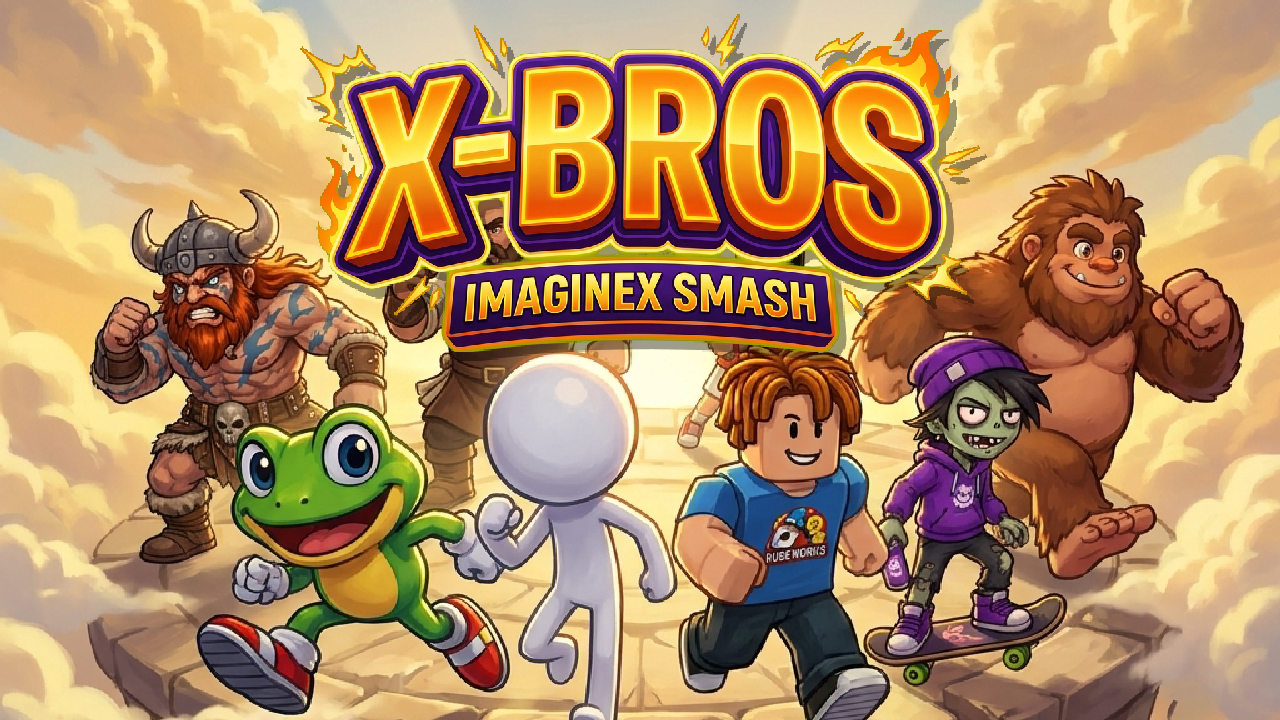
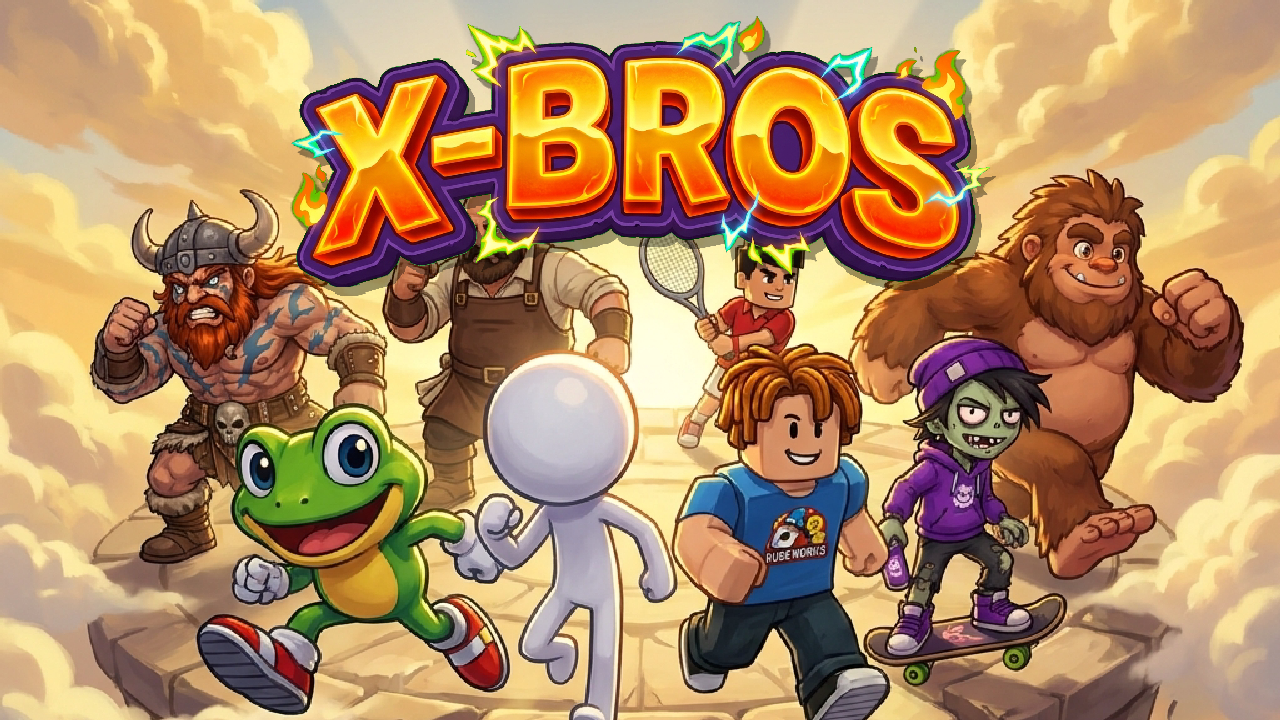
X-Bros v1.0: items (Power Star / Taco / Bomb), per-stage melodies, subtitle-free title
- Items spawn on floor/platforms every 11-18s: star = 8s of 1.5x power w/ gold
  pulse, taco = heal 35%, bomb = trap that dodges/shields can beat
- Meshy-painted item icons keyed into sprites/items.png (rect fallback kept)
- CPU grabs tacos when hurt and stars when safe
- Three A-minor lead melodies, one per stage mood, on top of per-stage tempo
- Title art recomposited with a new subtitle-free logo (user: "IMAGINEX SMASH"
  made no sense) - flatter lettering also uncovers John and Chad
- Smoke test: 60 checks

Changed region(s): [[0.2188, 0.0306, 0.7812, 0.5194]]

diff --git a/public/games/x-bros/index.html b/public/games/x-bros/index.html
@@ -114,10 +114,11 @@ class SoundManager {
   // ---- Procedural chiptune BGM ----------------------------------------------
   // A 4-bar loop in A minor scheduled with a 350ms lookahead. All routed through
   // musicGain -> master so the M mute still silences everything at once.
-  startMusic(bpm = 138) {
+  startMusic(bpm = 138, leadIdx = 0) {
     this.ensure();
     this.resume();
-    this.bpm = bpm;   // per-stage tempo
+    this.bpm = bpm;         // per-stage tempo
+    this.leadIdx = leadIdx; // per-stage melody
     if (!this.ctx || this.musicTimer) return;
     this.musicGain = this.ctx.createGain();
     this.musicGain.gain.value = 0.55;   // music sits under the SFX
@@ -150,14 +151,28 @@ class SoundManager {
     const BASS = [45, 45, 57, 45, 48, 48, 45, 45,   43, 43, 55, 43, 41, 41, 43, 44];
     const b = BASS[step % BASS.length];
     this.tone({ type: "triangle", freqStart: midi(b), dur: SPB * 0.92, volume: 0.26, at: t, dest: g });
-    // Lead: 4-bar melody (0 = rest), A minor pentatonic
-    const LEAD = [
-      69, 0, 72, 0, 74, 0, 72, 74,   76, 0, 74, 72, 69, 0, 0, 0,
-      67, 0, 69, 0, 72, 0, 69, 72,   74, 0, 72, 69, 67, 0, 0, 0,
-      69, 0, 72, 0, 74, 0, 76, 0,    79, 0, 76, 74, 76, 0, 0, 0,
-      81, 0, 79, 76, 74, 0, 72, 74,  69, 0, 0, 0, 0, 0, 64, 67,
+    // Leads: three 4-bar melodies (0 = rest), all A minor pentatonic — picked per stage
+    const LEADS = [
+      [ // 0 — driving (Plains / Rooftop)
+        69, 0, 72, 0, 74, 0, 72, 74,   76, 0, 74, 72, 69, 0, 0, 0,
+        67, 0, 69, 0, 72, 0, 69, 72,   74, 0, 72, 69, 67, 0, 0, 0,
+        69, 0, 72, 0, 74, 0, 76, 0,    79, 0, 76, 74, 76, 0, 0, 0,
+        81, 0, 79, 76, 74, 0, 72, 74,  69, 0, 0, 0, 0, 0, 64, 67,
+      ],
+      [ // 1 — moody, sparse (Peaks / Cavern)
+        69, 0, 0, 67, 69, 0, 72, 0,    0, 0, 74, 0, 72, 0, 69, 0,
+        64, 0, 0, 67, 69, 0, 0, 0,     72, 0, 69, 0, 67, 0, 0, 0,
+        69, 0, 0, 67, 69, 0, 74, 0,    0, 0, 76, 0, 74, 0, 72, 0,
+        79, 0, 76, 0, 74, 0, 72, 0,    69, 0, 0, 0, 67, 0, 64, 0,
+      ],
+      [ // 2 — bouncy syncopation (Sunset)
+        0, 69, 0, 72, 0, 74, 74, 0,    72, 0, 69, 0, 72, 72, 0, 0,
+        0, 67, 0, 69, 0, 72, 72, 0,    69, 0, 67, 0, 69, 69, 0, 0,
+        0, 69, 0, 72, 0, 76, 76, 0,    74, 0, 72, 0, 74, 74, 0, 0,
+        0, 79, 0, 76, 0, 74, 72, 0,    69, 0, 72, 0, 69, 0, 0, 0,
+      ],
     ];
-    const l = LEAD[step];
+    const l = LEADS[this.leadIdx || 0][step];
     if (l) this.tone({ type: "square", freqStart: midi(l), dur: SPB * 0.85, volume: 0.085, at: t, dest: g });
     // Drums: kick on the beat, snare on 2 & 4, hats on off-8ths
     if (step % 8 === 0) this.tone({ type: "sine", freqStart: 130, freqEnd: 45, dur: 0.09, volume: 0.34, at: t, dest: g });
@@ -368,26 +383,26 @@ const DIFFICULTY = {
 // Stages — the main floor footprint is IDENTICAL in every stage (the grab clamp
 // and floor safety-net both assume it), so variety comes from platforms + palette.
 const STAGES = [
-  { id: "plains", name: "SKY PLAINS", bg: "bg/bg_plains.png", theme: "earth", bpm: 132,
+  { id: "plains", name: "SKY PLAINS", bg: "bg/bg_plains.png", theme: "earth", bpm: 132, lead: 0,
     grass: 0x5fae52,
     bgTop: 0x1a2a4a, bgBot: 0x081828, mtn: 0x223759, haze: 0x12203a,
     floor: 0x432d20, floorEdge: 0x6b4632, plat: 0x6b4632, platEdge: 0x9b6c4a,
     platforms: [{ x: W / 2, y: 440, w: 360 }] },
-  { id: "peaks", name: "TWIN PEAKS", bg: "bg/bg_peaks.png", theme: "stone", bpm: 126,
+  { id: "peaks", name: "TWIN PEAKS", bg: "bg/bg_peaks.png", theme: "stone", bpm: 126, lead: 1,
     bgTop: 0x2a1a3e, bgBot: 0x120a24, mtn: 0x3d2a5c, haze: 0x1d1436,
     floor: 0x3a3a4c, floorEdge: 0x5e5e7a, plat: 0x5e5e7a, platEdge: 0x8888aa,
     platforms: [{ x: W / 2 - 330, y: 450, w: 260 }, { x: W / 2 + 330, y: 450, w: 260 }] },
-  { id: "sunset", name: "SUNSET FLATS", bg: "bg/bg_sunset.png", theme: "earth", bpm: 120,
+  { id: "sunset", name: "SUNSET FLATS", bg: "bg/bg_sunset.png", theme: "earth", bpm: 120, lead: 2,
     grass: 0x7dae4a,
     bgTop: 0x5c2a1a, bgBot: 0x1a0a08, mtn: 0x6e3a24, haze: 0x2a120a,
     floor: 0x4a3524, floorEdge: 0x6e5236, plat: 0x4a7040, platEdge: 0x6a9a58,
     platforms: [] },
-  { id: "rooftop", name: "NEON ROOFTOP", bg: "bg/bg_rooftop.png", theme: "metal", bpm: 150,
+  { id: "rooftop", name: "NEON ROOFTOP", bg: "bg/bg_rooftop.png", theme: "metal", bpm: 150, lead: 0,
     bgTop: 0x0a2a30, bgBot: 0x04121a, mtn: 0x123842, haze: 0x081e26,
     floor: 0x24343c, floorEdge: 0x3a565e, plat: 0x2c3e46, platEdge: 0x22e0e8,
     platforms: [{ x: W / 2 - 380, y: 470, w: 230 }, { x: W / 2 + 380, y: 470, w: 230 },
                 { x: W / 2, y: 380, w: 260 }] },
-  { id: "cavern", name: "CRYSTAL CAVERN", bg: "bg/bg_cavern.png", theme: "crystal", bpm: 112,
+  { id: "cavern", name: "CRYSTAL CAVERN", bg: "bg/bg_cavern.png", theme: "crystal", bpm: 112, lead: 1,
     bgTop: 0x10303a, bgBot: 0x061418, mtn: 0x1a4450, haze: 0x0a2028,
     floor: 0x1e3a34, floorEdge: 0x2fa08a, plat: 0x2a5a50, platEdge: 0x7ce8ff,
     platforms: [{ x: W / 2, y: 430, w: 480 }] },
@@ -655,6 +670,14 @@ function pickOtherIndex(p1Idx) {
   return i;
 }
 
+// Items — spawn on stage every ~11-18s, despawn after 9s, pickup by touch.
+//   star = 8s of 1.5x damage/knockback   taco = heal 35%   bomb = trap (shield blocks it)
+const ITEMS = [
+  { key: "star", frame: 0 },
+  { key: "taco", frame: 1 },
+  { key: "bomb", frame: 2 },
+];
+
 // ---- Battle scene ------------------------------------------------------------
 
 class BattleScene extends Phaser.Scene {
@@ -682,6 +705,10 @@ class BattleScene extends Phaser.Scene {
     const st = this.stageDef;
     if (st.bg && !this.textures.exists("bg_" + st.id)) {
       this.load.image("bg_" + st.id, st.bg);
+    }
+    // Item icons (star/taco/bomb). Missing → rectangle fallback in spawnItem.
+    if (!this.textures.exists("items")) {
+      this.load.spritesheet("items", "sprites/items.png", { frameWidth: 170, frameHeight: 170 });
     }
   }
 
@@ -870,6 +897,8 @@ class BattleScene extends Phaser.Scene {
 
     this.gameOver = false;
     this.hitstopUntil = 0;
+    this.items = [];
+    this.nextItemAt = this.time.now + 9000 + Math.random() * 6000;
 
     // READY... GO! intro — inputs held until GO
     this.introUntil = this.time.now + 1300;
@@ -885,7 +914,7 @@ class BattleScene extends Phaser.Scene {
     });
 
     SFX.play("matchStart");
-    SFX.startMusic(st.bpm);
+    SFX.startMusic(st.bpm, st.lead || 0);
     // Covers ESC-to-roster AND endMatch restart (shutdown fires before create re-runs)
     this.events.once("shutdown", () => SFX.stopMusic());
 
@@ -1026,9 +1055,88 @@ class BattleScene extends Phaser.Scene {
         if (show) this.offArrows[i].x = Math.max(20, Math.min(W - 20, f.sprite.x)) - 11;
       });
 
+      if (!intro) this.tickItems(time);
+
       if (this.p1.stocks <= 0 || this.p2.stocks <= 0) this.endMatch();
     }
     this.hud.tick();
+  }
+
+  // ---- Items ---------------------------------------------------------------
+
+  spawnItem(time) {
+    const def = ITEMS[Math.floor(Math.random() * ITEMS.length)];
+    // Spawn spots: anywhere along the floor + on any platform
+    const spots = [{ x: 160 + Math.random() * (W - 320), y: GROUND_Y - 44 }];
+    for (const p of this.stageDef.platforms) {
+      spots.push({ x: p.x - p.w / 2 + 24 + Math.random() * (p.w - 48), y: p.y - 56 });
+    }
+    const s = spots[Math.floor(Math.random() * spots.length)];
+    let gfx;
+    if (this.textures.exists("items")) {
+      gfx = this.add.sprite(s.x, s.y, "items", def.frame).setDisplaySize(46, 46);
+    } else {
+      gfx = this.add.rectangle(s.x, s.y, 34, 34,
+        def.key === "star" ? 0xffd94a : def.key === "taco" ? 0xd9a04a : 0x222233)
+        .setStrokeStyle(2, 0xffffff);
+    }
+    this.tweens.add({ targets: gfx, y: s.y - 8, duration: 700, yoyo: true, repeat: -1, ease: "Sine.easeInOut" });
+    spawnBurst(this, s.x, s.y, 0xffffff, 6, 90, 5, 300);
+    SFX.play("select");
+    this.items.push({ def, gfx, until: time + 9000 });
+  }
+
+  tickItems(time) {
+    if (time > this.nextItemAt && this.items.length < 2) {
+      this.spawnItem(time);
+      this.nextItemAt = time + 11000 + Math.random() * 7000;
+    }
+    for (let i = this.items.length - 1; i >= 0; i--) {
+      const it = this.items[i];
+      if (time > it.until) {
+        it.gfx.destroy();
+        this.items.splice(i, 1);
+        continue;
+      }
+      for (const f of [this.p1, this.p2]) {
+        if (f.stocks <= 0) continue;
+        if (Math.abs(f.sprite.x - it.gfx.x) < 42 && Math.abs(f.sprite.y - it.gfx.y) < 64) {
+          this.applyItem(f, it.def);
+          it.gfx.destroy();
+          this.items.splice(i, 1);
+          break;
+        }
+      }
+    }
+  }
+
+  applyItem(f, def) {
+    const t = this.time.now / 1000;
+    if (def.key === "taco") {
+      f.damage = Math.max(0, f.damage - 35);
+      f.floatText("+HEAL!", "#7be680");
+      spawnBurst(this, f.sprite.x, f.sprite.y - 20, 0x7be680, 8, 140);
+      SFX.play("confirm");
+    } else if (def.key === "star") {
+      f.powerUntil = t + 8;
+      f.floatText("POWER UP!", "#ffd94a");
+      spawnBurst(this, f.sprite.x, f.sprite.y - 20, 0xffd94a, 12, 200);
+      SFX.play("chargeFull");
+    } else {
+      // Bomb trap — dodge i-frames or a raised shield beat it, otherwise BOOM
+      if (f.tryDefend(f, 14, "attack")) return;
+      f.damage += 14;
+      const dir = Math.random() < 0.5 ? -1 : 1;
+      const kb = (320 + f.damage * ATTACK_KB_SCALE) / f.stats.weight;
+      f.sprite.body.setVelocity(dir * kb * 0.7, -kb * 0.8);
+      f.hitstunUntil = t + 0.35;
+      flashFighter(f, 0xffffff, 100);
+      spawnBurst(this, f.sprite.x, f.sprite.y - 10, 0xff8844, 16, 300, 9, 500);
+      spawnDamageNumber(this, f.sprite.x, f.sprite.y, 14);
+      this.hitstop(90);
+      this.cameras.main.shake(200, 0.01);
+      SFX.play("smashHit");
+    }
   }
 
   endMatch() {
@@ -1040,6 +1148,8 @@ class BattleScene extends Phaser.Scene {
       for (const p of f.projectiles) p.destroy();
       f.projectiles.length = 0;
     }
+    for (const it of this.items) it.gfx.destroy();
+    this.items.length = 0;
     const draw = this.p1.stocks <= 0 && this.p2.stocks <= 0;
     const winner = this.p1.stocks > 0 ? this.p1 : this.p2;
     // Fanfare only when the human wins; CPU wins and draws stay quiet.
@@ -1210,6 +1320,21 @@ class CpuController {
       } else {
         left = this.defAction.dir < 0;    // shield+direction on the press frame = roll
         right = this.defAction.dir > 0;
+      }
+    }
+
+    // Opportunistic item grabs: taco when hurt, star when the opponent is far
+    const scene = this.self.scene;
+    if (scene.items && scene.items.length && !this.defAction && !this.chargePlan) {
+      for (const it of scene.items) {
+        const idx = it.gfx.x - me.x;
+        const wantHeal = it.def.key === "taco" && this.self.damage > 55;
+        const wantStar = it.def.key === "star" && absDx > 260;
+        if ((wantHeal || wantStar) && Math.abs(idx) < 420 && Math.abs(it.gfx.y - me.y) < 90) {
+          left = idx < 0;
+          right = idx > 0;
+          break;
+        }
       }
     }
 
@@ -1642,6 +1767,12 @@ class Fighter {
       else if (Math.abs(body.velocity.x) > 50) frame = Math.floor(t * 7) % 2 === 0 ? 1 : 0;
       this.sprite.setFrame(frame);
       this.sprite.setFlipX(this.facing === -1);
+      // Power Star glow: pulsing gold tint while active
+      if (t < (this.powerUntil || 0)) {
+        this.sprite.setTint(Math.floor(t * 8) % 2 === 0 ? 0xffe08a : 0xffc040);
+      } else if (this.powerUntil && t < this.powerUntil + 0.1) {
+        this.sprite.clearTint();
+      }
     } else {
       this.eye.x = this.sprite.x + this.facing * 10;
       this.eye.y = this.sprite.y - 16;
@@ -1927,12 +2058,14 @@ class Fighter {
   }
 
   applySpecialHit(opponent, sp) {
-    if (opponent.tryDefend(this, sp.dmg, "special")) return;
     const t = this.scene.time.now / 1000;
-    opponent.damage += sp.dmg;
-    this.damageDealt += sp.dmg;
+    const powerMult = t < (this.powerUntil || 0) ? 1.5 : 1.0;
+    const dmg = sp.dmg * powerMult;
+    if (opponent.tryDefend(this, dmg, "special")) return;
+    opponent.damage += dmg;
+    this.damageDealt += dmg;
     const dir = Math.sign(opponent.sprite.x - this.sprite.x) || this.facing;
-    const rawKb = sp.kbBase + opponent.damage * ATTACK_KB_SCALE;
+    const rawKb = (sp.kbBase + opponent.damage * ATTACK_KB_SCALE) * powerMult;
     const kb = rawKb / opponent.stats.weight;
     opponent.sprite.body.setVelocity(dir * kb, -kb * 0.6);
     opponent.hitstunUntil = t + (HITSTUN_BASE + opponent.damage * 0.003) / opponent.stats.weight;
@@ -1941,7 +2074,7 @@ class Fighter {
     this.scene.cameras.main.shake(160, 0.007);
     this.scene.hitstop(80);
     spawnBurst(this.scene, opponent.sprite.x, opponent.sprite.y - 10, 0xff8844, 10, 200);
-    spawnDamageNumber(this.scene, opponent.sprite.x, opponent.sprite.y, sp.dmg);
+    spawnDamageNumber(this.scene, opponent.sprite.x, opponent.sprite.y, dmg);
     SFX.play("hit");
   }
 
@@ -2007,7 +2140,9 @@ class Fighter {
     const variant = hb ? hb.variant : "jab";
     const chargeMult = hb ? hb.chargeMult : 1;
     const dashMult = this.dashHit ? 1.25 : 1.0;
-    const dmg = s.attackDmg * (hb ? hb.dmgMult : 1) * chargeMult * dashMult;
+    // Power Star: 1.5x damage + knockback while active
+    const powerMult = (this.scene.time.now / 1000) < (this.powerUntil || 0) ? 1.5 : 1.0;
+    const dmg = s.attackDmg * (hb ? hb.dmgMult : 1) * chargeMult * dashMult * powerMult;
     if (opponent.tryDefend(this, dmg, "attack")) return;
     opponent.damage += dmg;
     this.damageDealt += dmg;
@@ -2015,7 +2150,7 @@ class Fighter {
     const dir = Math.sign(opponent.sprite.x - this.sprite.x) || this.facing;
     // Knockback scales with victim's accumulated damage, divided by victim's weight.
     const rawKb = (s.attackKbBase + opponent.damage * ATTACK_KB_SCALE)
-                  * (hb ? hb.kbMult : 1) * chargeMult * dashMult;
+                  * (hb ? hb.kbMult : 1) * chargeMult * dashMult * powerMult;
     const kb = rawKb / opponent.stats.weight;
     // Launch vector depends on the attack variant
     let vx = dir * kb, vy = -kb * 0.55;

diff --git a/public/games/x-bros/test_smoke.js b/public/games/x-bros/test_smoke.js
@@ -49,10 +49,12 @@ const scripts = [...html.matchAll(/<script>([\s\S]*?)<\/script>/g)].map(m => m[1
 const src = scripts[scripts.length - 1];
 // Script consts are top-level (no IIFE), so an appended shim in the same script
 // scope can see them and export what we need.
-vm.runInContext(src + "\n;globalThis.__X = { ROSTER, DIFFICULTY, STAGES, SFX, CpuController, zeroInput, W };", sandbox);
+vm.runInContext(src + "\n;globalThis.__X = { ROSTER, DIFFICULTY, STAGES, SFX, CpuController, zeroInput, W, ITEMS };", sandbox);
 check("script evaluates", true);
 
-const { ROSTER, DIFFICULTY, STAGES, SFX, W, CpuController, zeroInput } = sandbox.__X;
+const { ROSTER, DIFFICULTY, STAGES, SFX, W, CpuController, zeroInput, ITEMS } = sandbox.__X;
+check("3 item types", ITEMS.length === 3 && ITEMS.map(i => i.key).join() === "star,taco,bomb");
+check("stages have music leads", STAGES.every(s => typeof s.lead === "number" && s.lead >= 0 && s.lead <= 2));
 
 // ---- Data tables ------------------------------------------------------------
 check("8 fighters", ROSTER.length === 8);

diff --git a/public/games/x-bros/SPEC.md b/public/games/x-bros/SPEC.md
@@ -1,8 +1,8 @@
 # X-Bros — Design Spec
 
 **Game ID:** `x-bros`
-**Version:** 0.9
-**Last updated:** 2026-08-20 (v0.9: painted key-art title screen of the real cast via Meshy image-to-image; v0.8: themed platform art, CPU charged smashes, per-stage tempo, animation pass)
+**Version:** 1.0
+**Last updated:** 2026-08-21 (v1.0: ITEMS — Power Star / Taco / Bomb with Meshy-painted icons; per-stage melodies; subtitle removed from title art per user)
 **Platform:** ImagineX Console (web, iframe-embedded). Desktop keyboard only.
 **Engine:** Phaser 3.80 (loaded from CDN inside the iframe).
 
@@ -72,7 +72,19 @@ Five layouts in the `STAGES` table. **The main floor footprint is identical in e
 - `crystal` (Cavern) — soft aura + glowing crystal clusters growing off the top
 Detail placement uses multiplicative hashing (no RNG) so redraws are stable. Stage entries carry `theme`, optional `grass`, and `bpm`.
 
-**Per-stage music tempo (v0.8):** `SFX.startMusic(bpm)` — Plains 132, Peaks 126, Sunset 120, Rooftop 150, Cavern 112.
+**Per-stage music (v0.8/v1.0):** `SFX.startMusic(bpm, leadIdx)` — tempo per stage (Plains 132, Peaks 126, Sunset 120, Rooftop 150, Cavern 112) AND melody per stage: three 64-step A-minor-pentatonic leads (0 driving — Plains/Rooftop; 1 moody sparse — Peaks/Cavern; 2 bouncy syncopated — Sunset) via `st.lead`.
+
+## Items (v1.0)
+
+Spawn every 11–18 s (max 2 on stage), on the floor or any platform, bobbing; despawn after 9 s. Pickup by touch (42×64 px box). Icons are Meshy-painted (`sprites/items.png`, 3 frames of 170×170, green-screen keyed by color distance so the taco's lettuce survived); rectangle fallback if the sheet is missing.
+
+| Item | Frame | Effect |
+|---|---|---|
+| **Power Star** | 0 | 8 s of **1.5× damage + knockback** on all attacks and specials; fighter pulses gold |
+| **Taco** | 1 | heal 35% ("+HEAL!") |
+| **Bomb** | 2 | trap — 14% + big random-direction launch, hitstop + shake; **dodge i-frames or shield beat it** |
+
+CPU item awareness: walks toward a taco when its damage > 55%, or a star when the opponent is > 260 px away (within 420 px, roughly level; suspended during defense/charge plans). Items cleaned up on endMatch.
 
 Backdrops are Meshy text-to-image paintings (nano-banana-pro, 16:9, 1376×768; 9 credits each, generated 2026-08-20). The stage is picked in `BattleScene.init` so `preload` fetches only that stage's PNG; a 0.18-alpha black scrim sits over the painting for fighter/HUD readability. If the PNG fails to load, `create()` falls back to the original procedural gradient + mountains.
 
@@ -282,8 +294,9 @@ public/games/x-bros/
 
 ## Open items (next session)
 
-- Playtest v0.8: new title screen, platform art, 2P controls comfort, hitstop feel, CPU smash frequency
-- Items / power-ups; alternate music melodies per stage (tempo already varies); online play (Tank Wars has the relay pattern)
+- Playtest v1.0: items balance (spawn rate / bomb damage / star duration), 2P comfort, CPU smash frequency
+- Portrait cartridge cover refresh (covers are 2:3; landscape key art doesn't fit — needs its own composition)
+- Online play (Tank Wars has the room-code/relay pattern)
 - Local 2-player (WASD second keyboard player) — currently CPU-only
 - CPU use of tilts / smashes (it only jabs + specials + defends)
 - Per-character sprite tuning still needs play-test for Chad (displayH=280)
